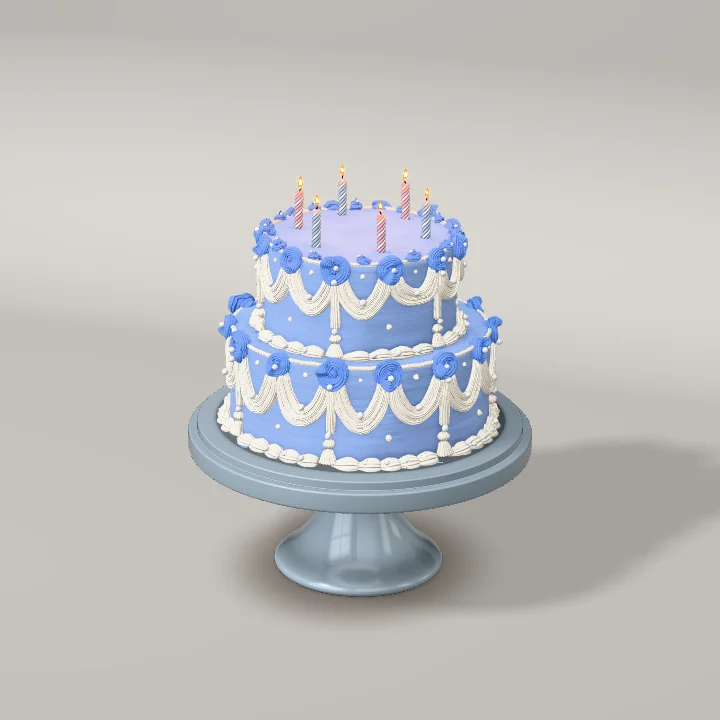
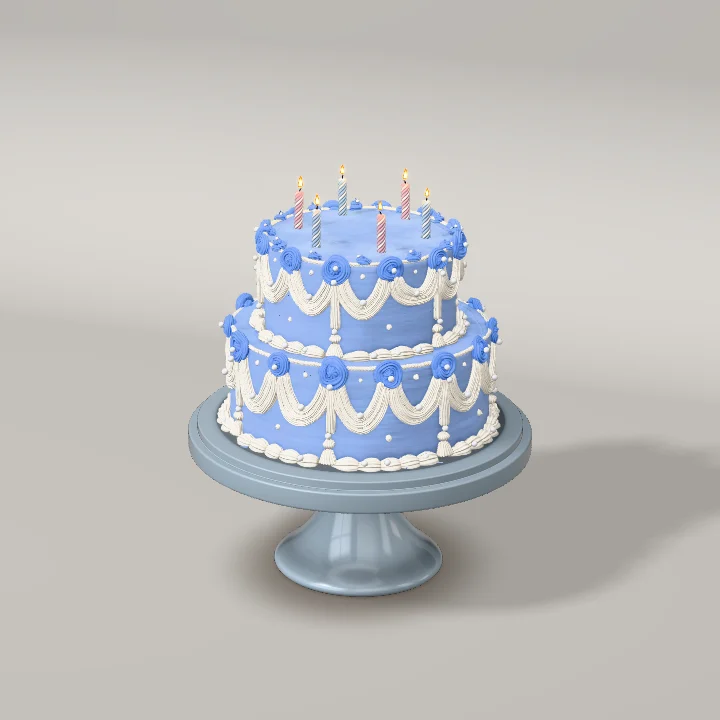
v1.6 flames polish 2: decision record (the re-judge's five fixes, numbers, tells, cost, tests), evidence, Birthday posters recaptured

diff --git a/docs/scenes/birthday-v1.6-flames.md b/docs/scenes/birthday-v1.6-flames.md
@@ -598,3 +598,139 @@ still.
 `4-lit-group-0.5s-every-48ms.png`, `4-motion-stats.txt`, `5-blow-one-0-352ms-every-16ms.png`,
 `5-blow-closeup-z25-64-176ms.png`, `5-blow-group-0-384ms-every-32ms.png`,
 `6-light-off-on-relative-x4.png`, `frame-cost.txt`, `reduced-motion-guest-accepted-540x2.png`.
+
+## Polish round 2: the re-judge's fixes (v1.6 polish 2, branch `v1.6/flames-polish2`)
+
+The re-judge signed the flame at rest at phone and 540 (7/10) and the blow at laptop and phone, but
+not the whole, and named five fixes: the smoke from 1 to 4 s (the blocker: six evenly spaced parallel
+bright stems, then out-of-focus columns), the first puff (barely there; a salmon tint and a fan of
+hairlines), the flame's foot (an orange collar on a glowing orange bead; a pale blue glass bubble),
+the lift-off (a golden sliver with a white core drifting for 2–3 frames) and the light (it turned the
+top tier lilac and swapped it back all at once). Each fix is its own commit, measured with the
+re-judge's own scripts on frames through the real controller. Numbers: `evidence/v1.6/flames-polish2/measurements.txt`.
+`v1.6/integration` (the cake polish 2's light response) was merged in before fix 5, so the light is
+calibrated against the pool that ships.
+
+### 1. The smoke from 1 to 4 s (`fire.ts`, `models/birthdaySmoke.ts`, `models/birthdayFire.ts` `SmokeRig`)
+
+- **Stems of their own.** Each plume's laminar stem ends at its own height (`smokeLaminar`: 4–12 cm,
+  stratified in a seeded order: 4.2, 7.4, 11.4, 9.9, 5.9, 8.5 cm) and leans its own way (`smokeLean`:
+  3–8°, alternate sides across the picture, on top of the room's shared draft). The six no longer run
+  parallel, nor end together.
+- **Filaments above them.** Above its transition the thread's waves go on growing (× up to 2.6 over
+  7 cm) until they roll into curls; five strands (was three) split off at staggered heights. The
+  strips draw the stem *and* the thin filament it goes on as (`ribbonShare`): at the thread's own width
+  (1–3 mm, `full`), as dense as the smoke it still carries (the opacity the physics thinned for the
+  turbulent spread is given back, × (spread/full)^0.6), fading out 6–24 cm over the transition; the
+  volume draws the rest, so the mass is kept. The breath's sweep hands smoke to the volume only for
+  vapour born while it blew (a filament's own curls make its path longer than its rise). The strips
+  go through a Catmull–Rom midpoint between parcels (`SMOKE_RIBBON_POINTS`: curls are round).
+- **Sheets inside the grid.** The parcels carry their turbulence into a second channel of the density
+  atlas (0 on a stem, 1 folded); the light pass averages it over 1.25 cm, and the march folds the
+  developed smoke into sheets: the zero set of an advected noise (cells ≈0.8 cm growing with height,
+  ε thin), its profile integrated exactly over each step (erf of the linearised field: a thin sheet is
+  never missed nor stippled), a tenth of the smoke left as a veil; dense developing smoke billows
+  instead (below). A white-noise start replaces interleaved gradient noise (its diagonal showed as
+  hatching against thin sheets); the box keeps a 1.5 cm margin for the warp.
+- **Measured** (2× close-up, ≈3.4 px/mm): crisp lines per plume (≥ 6 levels over the wall, half-width
+  ≤ 4 px, running ≥ 1 cm, in each plume's zone 1–15 cm over its own stem) 2.3 / 5.2 / 4.3 / 3.0 / 3.3 /
+  2.5 at 1.1 / 1.6 / 2.0 / 2.5 / 3.0 / 3.5 s, median +10–17 levels, half-width 3.0–3.4 px (the
+  re-judge's frame at 2 s: none; its columns were 10–15 px soft). Curls show at laptop size from 1 s.
+  The plume's path is computed once a candle and shared by its strands: 0.76 ms a frame of physics for
+  5 × 96 parcels (v1.6/integration: 1.32 ms for 3 × 64).
+
+### 2. The first puff
+
+- The breath's burst of vapour is 12× the smoulder's rate at once, e-folding in 0.2 s (`SMOKE.puff`,
+  `burst`: the vapour the flame was burning, all condensing now); the breath's shear layer rolls it up
+  (`rollPuff`: the burst's parcels wind about their centroid in the flow's plane, faster nearer it);
+  the volume draws it (the strips draw threads only: no strip wider than 3.5–5 mm, nor the puff's head:
+  a wide strip drew the hairline fan and a marshmallow at the wick), with billows where the developing
+  smoke is dense (Worley lumps through the folds) and an octave of the room's light for thick smoke
+  (`roomOctaves`: a dense puff is whiter than the greige wall; single scattering capped it at +20).
+  The splat's Gaussian reaches 0 at its cut (its 4 % drew hard edges round the dense puff).
+- The last glow 0.4 → 0.06 (`SMOKE_GLOW`): no salmon puff.
+- **Measured** (group view, over the pre-blow frame): the puff's core +20–24 levels at 0.24 s, +25–33
+  at 0.32 s, +23–29 at 0.40 s; its red over its green −7 to −10 levels at 0.16–0.19 s.
+
+### 3. The flame's foot (`FLAME.foot`, `src/render/flame.ts`)
+
+- The luminous zone's foot is 0.4 mm over the wick's tip (was 1.2 mm under), its soot forming within
+  0.5 mm (`FLAME_FOOT.ramp`), its rounded bottom 0.22 of the zone (was 0.32: a 4 mm bowl whose light
+  rose through the camera's orange), the dark core closed within 2.5 mm (held open over the lower
+  half, that part's light came from the cooler shell alone), 60 K cooler at the foot (was 220 K). The
+  lowest ≈18 % of the flame is its dim blue zone; the white-yellow core starts 1–1.5 mm over the tip.
+- The bead: 0.6 mm, lumpy (was a 1.1 mm sphere); the lit ember ≈1,130 K (was 1,240 K: a fifth as
+  bright), its glow σ 0.3 mm (was 0.5).
+- The blue sheath is added after the camera's response, deep blue, as light only, at most +3 levels
+  (`FLAME_BLUE`); through the soot's alpha and the response it drew whitish-blue arcs.
+- **Measured.** 30×, the share of saturated orange in the bright part's lowest 5–10 / 10–15 / 15–20 %:
+  23 / 10 / 21 % (re-judge: 5 / 50 / 71 %, and 51 % at 20–25 %); the lowest 5 % is the thin amber rim.
+  Laptop, each flame's lowest 20 %: orange 40–52 % → 10–19 %. The blue cup, A/B: +3 B, +2 G, +1–2 R
+  at most.
+
+### 4. The lift-off (`fire.ts` `flameState`, the shader's fade)
+
+Off the wick the soot cools over 26 ms (`BREATH.cool`, the fastest C¹ ramp the scene's continuity
+tests allow) and the shader draws a cooling flame × (1 − cool)^5 (was ³): 23 % of its light 8 ms after
+lift-off, 4.6 % at 12 ms, 0.3 % at 16 ms. The luminous zone tears over 45 ms (was 60); its radiant
+output (its light, the melt) ramps with the tear alone. Close-up: the frame 5 ms after lift-off
+carries 2.6 % of the flame's light (peak +9 levels, orange, no white core); 21 ms after, none.
+
+### 5. The light (`models/birthdayFire.ts`)
+
+- **Colour.** Soot at 1,900 K through the camera's white balance part-way to the candles (2,200 K)
+  with 30 % of the room's white (`FLAME_LIGHT_WB`): (1, 0.84, 0.45) linear (was (1, 0.28, 0.01): deep
+  orange to a daylight camera, lilac over the blue frosting). The wax under its own flame glows
+  halfway back to the soot's colour (`waxGlowColor`).
+- **Breathing.** × (1 + 0.65 × the flame's length breathing + 3.5 % × the room's air at 0.6–2.3 Hz,
+  shared) (`FLICKER.light`, `Flicker.light`); exactly 1 in stills.
+- **The blow.** Each candle's light goes out with its own flame over 45 ms from its own lift-off.
+- **Measured** (the group view, the flames' light on and off, with the cake polish 2's pool): the
+  top's centre +6.0 R / +5.0 G / +1.3 B levels (linear +8.7 / +6.0 / +1.2 %; re-judge +51 / +19 / 0
+  on the first pool, +8 / +2.5 / 0 on the calibrated one); round the candles +9–11 R with G and B.
+  Over 1 s the centre's light varies sd 1.4 %, p-p 4.7 % (round the candles sd 1.2–2.4 %). Through the
+  blow the top's mean (+12.6 R) falls over 112–272 ms, at most 1.5 levels a frame, the left candles'
+  pools first (128–176 ms), the right's last (208–256 ms).
+
+### Tells
+
+Gone: the six parallel stems, the out-of-focus columns, the weak first puff, the salmon puff, the
+hairline fan, the orange collar, the match-head bead, the pale blue bubble, the golden sliver, the
+lilac top and its swap. Improved: the 192 px dots (the collar and bead gone; the warm footprint glow
+kept so the thumbnail reads lit). Remaining, recorded: at 2× the filaments' sharpest turns (rolls seen
+edge-on) are corners with a bright point where the strip doubles back; the first puff at 10× is a
+soft, rolled cloud (the volume's 5 mm grid) rather than a crisp one; the macro's wick is still the
+master's matte rod (tell 9); the vector-like constant-width rim at 12–60× and the march's stipple at
+12× (tells 7–8) are unchanged.
+
+### Cost (`evidence/v1.6/flames-polish2/frame-cost.txt`)
+
+The whole fire (flames, bloom, haze, smoke): lit 1.21 ms laptop / 1.17 ms phone; the first puff
+(0.3 s) 1.00 / 0.86 ms; the smoke at 1.5 s 0.81 / 0.75 ms (+0.76 ms of physics on the main thread).
+Budget ≤ 2.0 ms: met.
+
+### Verification
+
+`pnpm typecheck`; `tests/birthdayFire.test.ts` 35/35 (new: the stems' heights and leans, the strip /
+volume split, the strands sharing their plume, the lift-off's seen fraction, the light's colour,
+breathing and per-candle fade; the foot's position), `tests/flameRender.test.ts` 7/7,
+`tests/birthday.test.ts` 34/34 (the continuity bound on the faster lift-off), `birthdayChange` 7/7,
+`birthdayMeltCarry` 2/2, `scene-depth` 5/5, `birthdayPiping` 9/9. Browser (`BASE_URL=http://127.0.0.1:5610`):
+`birthday.spec` 7/7, `bloom.spec` 3/3 (one failure on a cold first run, 3/3 on the two full runs after),
+`scene-depth.spec` 5/5, `resilience.spec` 14/14, `collection.spec` 3/3, `posters.spec` Birthday 1/1 after
+the recapture (`pnpm capture birthday`: every Birthday poster and the thumbnail; the host-ready and
+accepted ones also carry the merged cake polish 2). The re-judge's kept qualities, re-measured: the
+lit 1 s strip's tip-x sd 0.95–2.10 px, dominant 1–2 Hz, area correlation −0.01; the bloom's
+byte-identical guard; the accepted still at 8 s and under reduced motion shows no smoke.
+
+### Evidence (`evidence/v1.6/flames-polish2/`)
+
+`1-smoke-2x-closeup-1-3s-before-after.webp`, `1-smoke-wide-sheet-0.3-3.9s.webp`,
+`1-2-smoke-laptop-0.4-3.5s.webp`, `1-2-smoke-phone-0.3-2.5s.webp`, `2-first-puff-group-160-480ms.webp`,
+`2-4-blow-closeup-128-400ms.webp`, `3-foot-macro-30x-60x-12x-before-after.webp`,
+`3-foot-macro-30x-nobloom-and-f3.webp`, `3-sizes-laptop-540-192-before-after.webp`,
+`4-blow-closeup-0-400ms-every-16ms.webp`, `5-light-off-before-after.webp`,
+`5-light-alone-x4-before-after.webp`, `5-light-through-the-blow-0-304ms.webp`,
+`lit-group-1s-every-128ms.webp`, `accepted-4s-8s-reduced-motion-540x2.webp`, `frame-cost.txt`,
+`measurements.txt`, `light-measurements.txt`.
